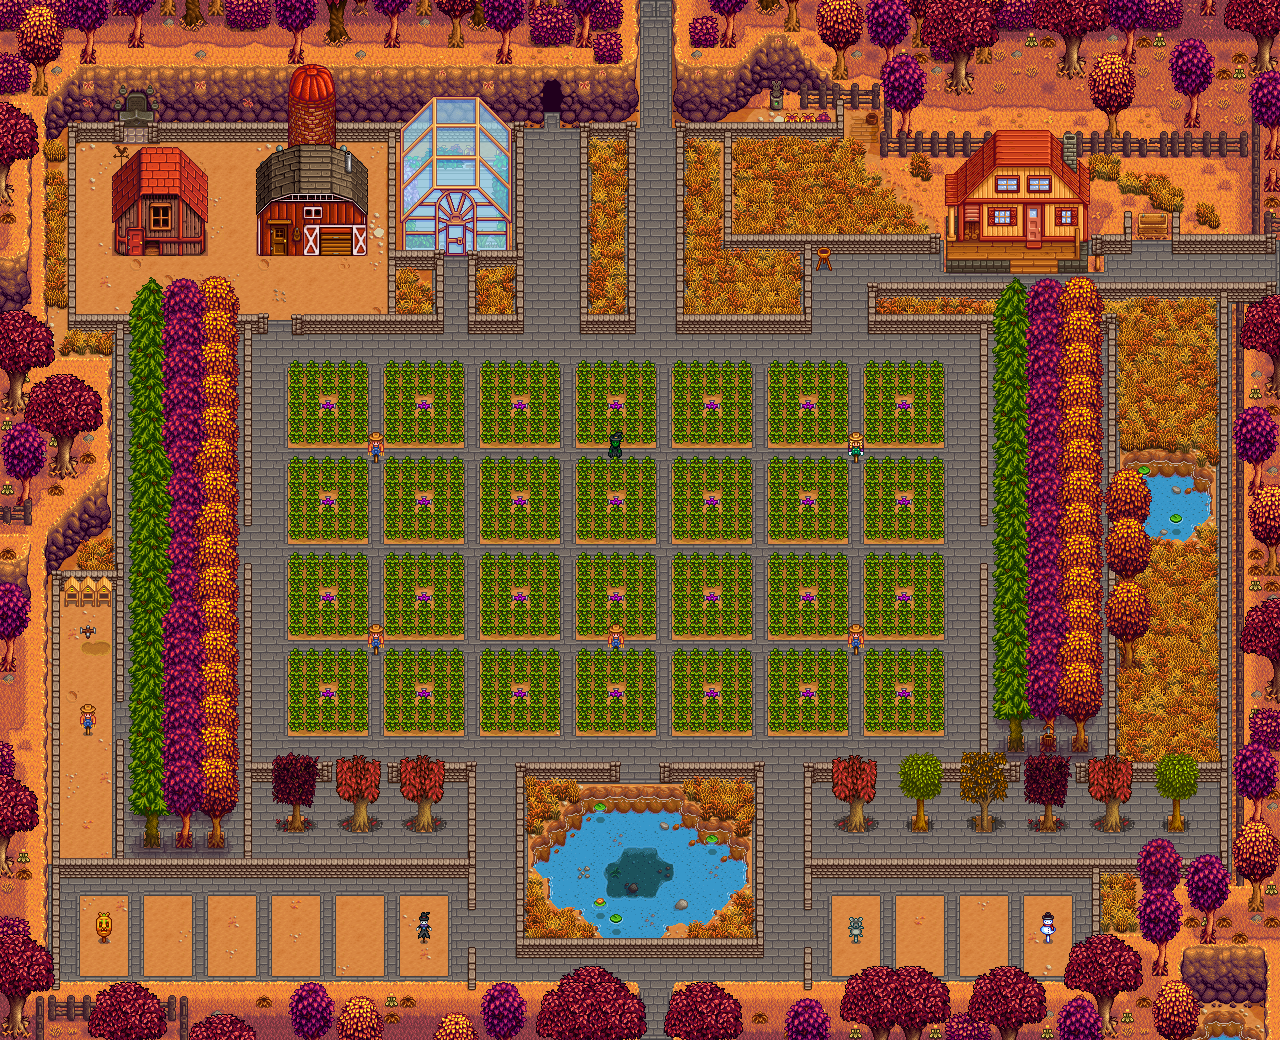
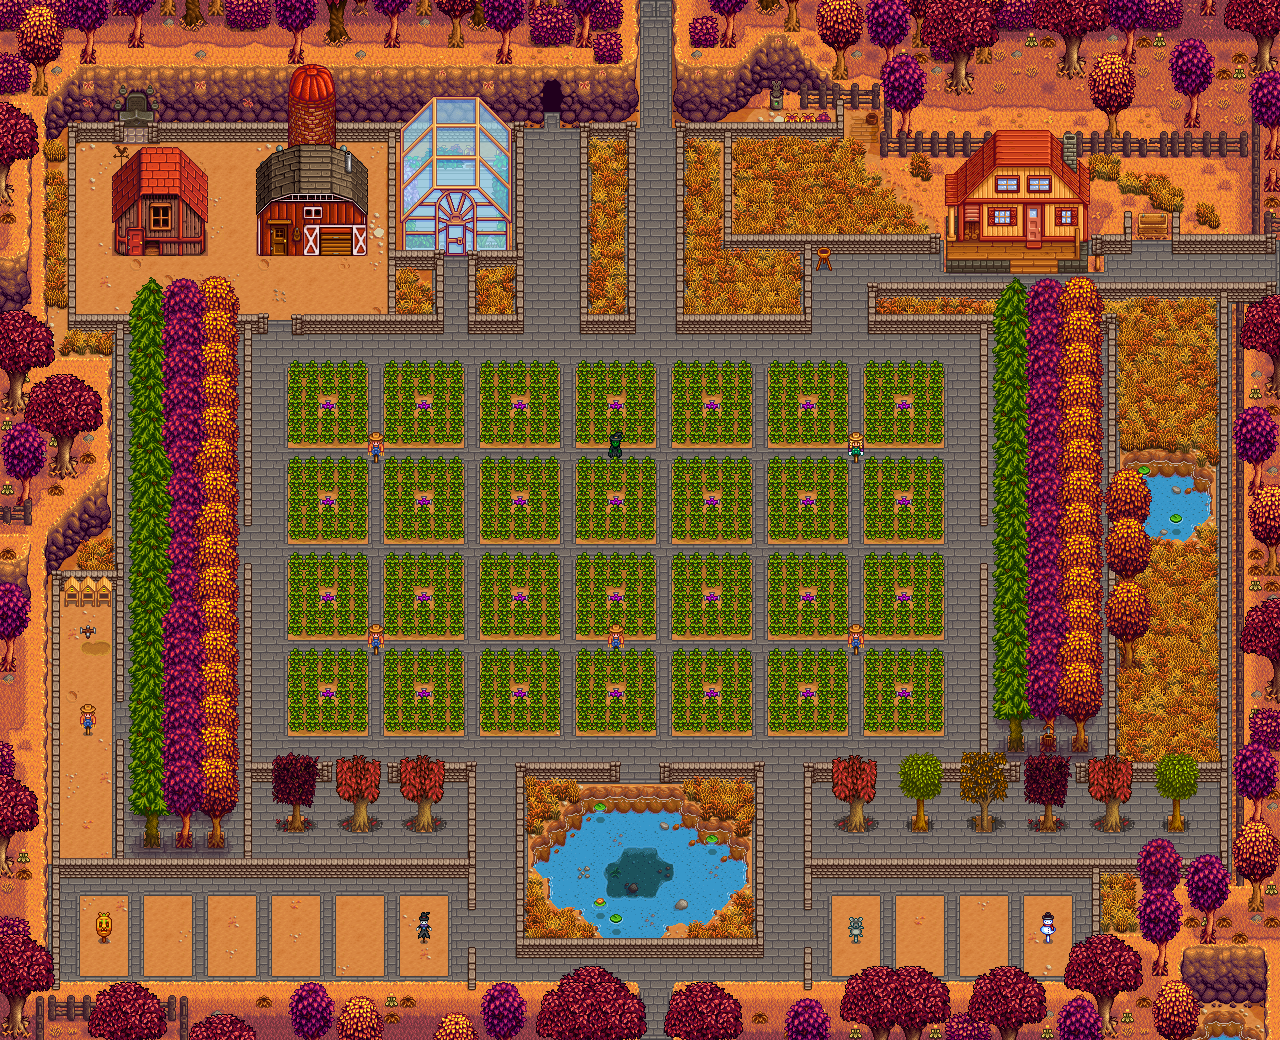
Get the crops to flip correctly
This gets the crops to flip correctly.  Minor enhancement to issue #39

Changed region(s): [[0.2188, 0.3385, 0.75, 0.7077], [0.6875, 0.3385, 0.75, 0.4308]]

diff --git a/parser/parse_savegame.go b/parser/parse_savegame.go
@@ -126,6 +126,7 @@ type Crop struct {
 	RowInSpriteSheet   int   `xml:"rowInSpriteSheet"`
 	IndexOfHarvest     int   `xml:"indexOfHarvest"`
 	CurrentPhase       int   `xml:"currentPhase"`
+	Flip               bool  `xml:"flip"`
 	FullyGrown         bool  `xml:"fullyGrown"`
 	DaysOfCurrentPhase int   `xml:"dayOfCurrentPhase"`
 	RaisedSeeds        bool  `xml:"raisedSeeds"`

diff --git a/view/draw_hoedirt.go b/view/draw_hoedirt.go
@@ -73,6 +73,6 @@ func drawHoeDirt(pm *parser.Map, season string, item *parser.TerrainItem, img dr
 			item.Key.Vector2.X * m.TileWidth,
 			item.Key.Vector2.Y*m.TileHeight - 16, // because using tile height 32 above
 		})
-		sb.Draw(img, r, src, sr.Min, objectLayer)
+		sb.Draw(img, r, cropAndMaybeFlip(crop.Flip, src, sr), image.ZP, objectLayer)
 	}
 }
